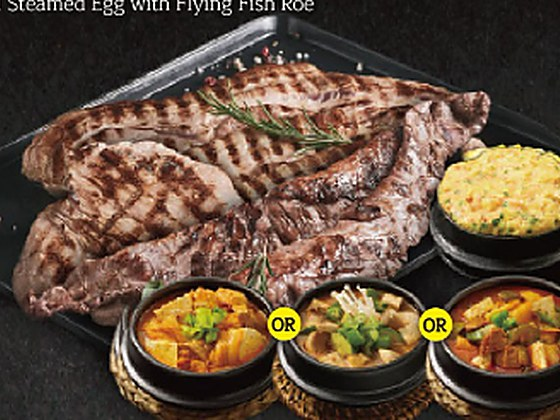
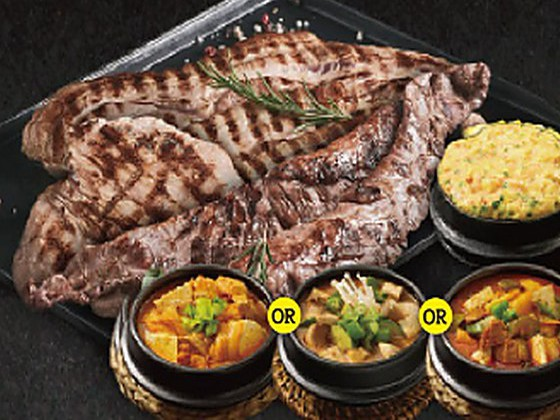
feat(menu): new hero slides, drop unsold cuts, match the printed menu
Slides: the first is the 생삼겹살 shot from hanampig.co.kr's menu page, the
second the flame-grill photo the client supplied. Share preview follows the
first slide. Combo C's photo carried a sliced-off caption along its top edge
— cropped away.

모둠한판 / 특별한판 are on the Korean menu but Tây Hồ does not sell them.

Vietnamese copy, from a native review plus the client's photos of the printed
menu. The printed menu is the authority here — a guest reading the site then
the menu board has to see the same words:
- 갈매기살 was "Thịt cơ hoành heo" on the card and "Nạc dây heo" in combos;
  the board says "Thịt nạc dày heo" (nạc dây was a tone typo of nạc dày).
- Combo descriptions drifted from their own cards on 꽃살, 등심, 살치살,
  항정살, 토시살. All now read as the cards do.
- The feature blurb promised seafood and desserts the kitchen doesn't serve.
- 계란찜 was called a canh (soup) in one combo and 트ứng hấp in another.
- "Ba ưu đãi" (three offers) when four render.
- kimchi/kim chi and mì/mỳ both appeared.
- Beef Combo → Combo Bò, Prime/Wagyu Combo → Combo Prime/Wagyu (head-initial
  word order). "Combo" itself stays: the printed menu uses it too.

diff --git a/assets/js/menu.js b/assets/js/menu.js
@@ -14,16 +14,16 @@ window.MENU = {
       img: "assets/img/menu/combo-pig-a.jpg", price: "540,000 VND",
       name: { vi: "Combo A", en: "Combo A" },
       desc: {
-        vi: "Ba chỉ heo 180g + Gáy heo 180g + 1 Canh trứng hấp.",
+        vi: "Ba chỉ heo 180g + Gáy heo 180g + 1 trứng hấp.",
         en: "Pork Belly 180g + Pork Neck End 180g + 1 Steamed Egg."
       }
     },
     {
       group: "popular", id: "pop-combo-beef-prime", ko: "프라임 콤보",
       img: "assets/img/menu/combo-beef-prime.jpg", price: "1,650,000 VND",
-      name: { vi: "Prime Combo", en: "Prime Combo" },
+      name: { vi: "Combo Prime", en: "Prime Combo" },
       desc: {
-        vi: "Thăn hoa bò Prime 130g + Thăn lưng bò Prime 130g + Bẹ vai bò Prime 130g + 1 canh bất kỳ.",
+        vi: "Sườn hoa rút xương Prime 130g + Thăn lưng bò Prime 130g + Bẹ vai Prime 130g + 1 canh bất kỳ.",
         en: "Prime Beef Short Rib 130g + Prime Sirloin 130g + Prime Chuck Flap Tail 130g + One Stew."
       }
     },
@@ -48,9 +48,9 @@ window.MENU = {
     {
       group: "popular", id: "pop-kimchi-stew", ko: "돼지고기 김치찌개",
       img: "assets/img/side-kimchi-stew.jpg", price: "200,000 VND",
-      name: { vi: "Canh kim chi thịt heo", en: "Pork Kimchi Stew" },
+      name: { vi: "Canh kimchi thịt heo", en: "Pork Kimchi Stew" },
       desc: {
-        vi: "Canh kim chi đậm đà nấu cùng thịt heo và kim chi lên men — món canh cân bằng hoàn hảo vị béo của thịt nướng.",
+        vi: "Canh kimchi đậm đà nấu cùng thịt heo và kimchi lên men — món canh cân bằng hoàn hảo vị béo của thịt nướng.",
         en: "A deep, tangy stew of well-fermented kimchi and pork — the classic counterpoint to a rich grill."
       }
     },
@@ -72,7 +72,7 @@ window.MENU = {
       img: "assets/img/menu/combo-pig-a.jpg", price: "540,000 VND",
       name: { vi: "Combo A", en: "Combo A" },
       desc: {
-        vi: "Ba chỉ heo 180g + Gáy heo 180g + 1 Canh trứng hấp.",
+        vi: "Ba chỉ heo 180g + Gáy heo 180g + 1 trứng hấp.",
         en: "Pork Belly 180g + Pork Neck End 180g + 1 Steamed Egg."
       }
     },
@@ -81,7 +81,7 @@ window.MENU = {
       img: "assets/img/menu/combo-pig-b.jpg", price: "900,000 VND",
       name: { vi: "Combo B", en: "Combo B" },
       desc: {
-        vi: "Ba chỉ heo 180g + Gáy heo 180g + Má heo 150g + 1 Trứng hấp + Khay nấm.",
+        vi: "Ba chỉ heo 180g + Gáy heo 180g + Thịt má heo 150g + 1 Trứng hấp + Khay nấm.",
         en: "Pork Belly 180g + Pork Neck End 180g + Jowl Meat 150g + 1 Steamed Egg + Assorted Mushrooms."
       }
     },
@@ -90,7 +90,7 @@ window.MENU = {
       img: "assets/img/menu/combo-pig-c.jpg", price: "1,250,000 VND",
       name: { vi: "Combo C", en: "Combo C" },
       desc: {
-        vi: "Ba chỉ heo 360g + Má heo 150g + Nạc dây heo 150g + 1 Canh bất kỳ + Trứng hấp trứng cá chuồn.",
+        vi: "Ba chỉ heo 360g + Thịt má heo 150g + Thịt nạc dày heo 150g + 1 Canh bất kỳ + Trứng hấp trứng cá chuồn.",
         en: "Pork Belly 360g + Jowl Meat 150g + Skirt Meat 150g + One Stew + 1 Steamed Egg with Flying Fish Roe."
       }
     },
@@ -99,71 +99,48 @@ window.MENU = {
       img: "assets/img/menu/combo-pig-d.jpg", price: "1,500,000 VND",
       name: { vi: "Combo D", en: "Combo D" },
       desc: {
-        vi: "Ba chỉ heo 360g + Má heo 300g + Nạc dây heo 150g + 1 Canh bất kỳ + Trứng hấp trứng cá chuồn.",
+        vi: "Ba chỉ heo 360g + Thịt má heo 300g + Thịt nạc dày heo 150g + 1 Canh bất kỳ + Trứng hấp trứng cá chuồn.",
         en: "Pork Belly 360g + Jowl Meat 300g + Skirt Meat 150g + One Stew + 1 Steamed Egg with Flying Fish Roe."
       }
     },
     {
       group: "combo", id: "combo-beef-a", ko: "소고기 콤보 A",
       img: "assets/img/menu/combo-beef-a.jpg", price: "1,260,000 VND",
-      name: { vi: "Beef Combo A", en: "Beef Combo A" },
+      name: { vi: "Combo Bò A", en: "Beef Combo A" },
       desc: {
-        vi: "Diềm bụng bò 150g + Dẻ sườn 300g + 1 Trứng hấp và Khay nấm.",
+        vi: "Diềm bụng 150g + Dẻ sườn 300g + 1 Trứng hấp và Khay nấm.",
         en: "Hanging Tender 150g + Beef Short Rib Finger 300g + Steamed Egg and Assorted Mushrooms."
       }
     },
     {
       group: "combo", id: "combo-beef-b", ko: "소고기 콤보 B",
       img: "assets/img/menu/combo-beef-b.jpg", price: "1,800,000 VND",
-      name: { vi: "Beef Combo B", en: "Beef Combo B" },
+      name: { vi: "Combo Bò B", en: "Beef Combo B" },
       desc: {
-        vi: "Sườn hoa rút xương Prime 130g + Thăn lưng Prime 130g + Diềm bụng 150g + Dẻ sườn 150g + 1 canh bất kỳ.",
+        vi: "Sườn hoa rút xương Prime 130g + Thăn lưng bò Prime 130g + Diềm bụng 150g + Dẻ sườn 150g + 1 canh bất kỳ.",
         en: "Prime Beef Short Rib 130g + Prime Sirloin 130g + Hanging Tender 150g + Beef Short Rib Finger 150g + One Stew."
       }
     },
     {
       group: "combo", id: "combo-beef-prime", ko: "프라임 콤보",
       img: "assets/img/menu/combo-beef-prime.jpg", price: "1,650,000 VND",
-      name: { vi: "Prime Combo", en: "Prime Combo" },
+      name: { vi: "Combo Prime", en: "Prime Combo" },
       desc: {
-        vi: "Thăn hoa bò Prime 130g + Thăn lưng bò Prime 130g + Bẹ vai bò Prime 130g + 1 canh bất kỳ.",
+        vi: "Sườn hoa rút xương Prime 130g + Thăn lưng bò Prime 130g + Bẹ vai Prime 130g + 1 canh bất kỳ.",
         en: "Prime Beef Short Rib 130g + Prime Sirloin 130g + Prime Chuck Flap Tail 130g + One Stew."
       }
     },
     {
       group: "combo", id: "combo-wagyu", ko: "와규 콤보",
       img: "assets/img/menu/combo-wagyu.jpg", price: "2,600,000 VND",
-      name: { vi: "Wagyu Combo", en: "Wagyu Combo" },
+      name: { vi: "Combo Wagyu", en: "Wagyu Combo" },
       desc: {
         vi: "Thăn hoa Wagyu A5 130g + Thăn tôm Wagyu A5 130g + Bẹ vai Wagyu A5 130g + 1 Canh bất kỳ + 1 Trứng hấp.",
         en: "Wagyu Ribeye A5 130g + Wagyu Striploin A5 130g + Wagyu Chuck Flap Tail A5 130g + One Stew + Steamed Egg with Flying Fish Roe."
       }
     },
-    /* ---------- Pork (7) ---------- */
-    {
-      group: "pork",
-      id: "modum-hanpan",
-      ko: "모둠한판",
-      img: "assets/img/hanam-cut-a.jpg",
-      price: "700,000 VND",
-      name: { vi: "Set thịt nướng thập cẩm", en: "Combo Grill Platter" },
-      desc: {
-        vi: "Set thập cẩm hào phóng gồm các phần được yêu thích nhất — ba chỉ, nạc vai và nhiều hơn nữa — nướng chung để cả bàn cùng thưởng thức.",
-        en: "A generous mix of our most-loved cuts — pork belly, collar and more — grilled together so the whole table can share every flavor."
-      }
-    },
-    {
-      group: "pork",
-      id: "teukbyeol-hanpan",
-      ko: "특별한판",
-      img: "assets/img/hanam-cut-b.jpg",
-      price: "1,000,000 VND",
-      name: { vi: "Set nướng đặc biệt", en: "Special Grill Platter" },
-      desc: {
-        vi: "Tuyển chọn cao cấp các phần thịt đặc biệt cho trải nghiệm đậm đà hơn — cách tuyệt nhất để khám phá thịt heo đặc trưng của Hanam.",
-        en: "A premium selection of special cuts for a richer tasting course — the best way to explore Hanam's signature pork."
-      }
-    },
+    /* ---------- Pork (5) ----------
+       모둠한판 / 특별한판 are on the Korean menu but not sold at Tây Hồ. */
     {
       group: "pork",
       id: "saengsamgyeopsal",
@@ -206,9 +183,9 @@ window.MENU = {
       ko: "갈매기살",
       img: "assets/img/hanam-cut-f.jpg",
       price: "270,000 VND",
-      name: { vi: "Thịt cơ hoành heo", en: "Pork Skirt Meat" },
+      name: { vi: "Thịt nạc dày heo", en: "Pork Skirt Meat" },
       desc: {
-        vi: "Phần cơ hoành hiếm — mỗi con heo chỉ có một ít. Thớ dai sần sật, vị đậm đà.",
+        vi: "Phần thịt hiếm — mỗi con heo chỉ có một ít. Thớ dai sần sật, vị đậm đà.",
         en: "A rare diaphragm cut — only a little per pig. Springy, chewy texture with a deep savory taste."
       }
     },
@@ -297,7 +274,7 @@ window.MENU = {
       group: "lunch", id: "lunch-galbi", ko: "양념목살갈비", price: "200,000 VND",
       name: { vi: "Nạc sườn vai sốt tương", en: "Soy-Marinated Pork Neck" },
       desc: {
-        vi: "COMBO A: 1 phần nạc sườn vai sốt tương + 1 mỳ lạnh nước hoặc mỳ lạnh trộn.\nCOMBO B: 1 phần nạc sườn vai sốt tương + 1 canh đậu tương (nhỏ) + 1 cơm trắng.\nThêm trứng hấp chỉ với 50.000 VND.",
+        vi: "COMBO A: 1 phần nạc sườn vai sốt tương + 1 mì lạnh nước hoặc mì lạnh trộn.\nCOMBO B: 1 phần nạc sườn vai sốt tương + 1 canh đậu tương (nhỏ) + 1 cơm trắng.\nThêm trứng hấp chỉ với 50.000 VND.",
         en: "COMBO A: 1 Soy Sauce Marinated Pork Neck + 1 Cold Buckwheat Noodle (broth or spicy).\nCOMBO B: 1 Soy Sauce Marinated Pork Neck + 1 Soybean Paste Stew (small) + 1 Steamed Rice.\nAdd Steamed Egg for 50,000 VND."
       }
     },
@@ -305,7 +282,7 @@ window.MENU = {
       group: "lunch", id: "lunch-jeyuk", ko: "제육볶음", price: "200,000 VND",
       name: { vi: "Thịt heo xào cay", en: "Spicy Stir-Fried Pork" },
       desc: {
-        vi: "COMBO A: 1 phần thịt heo xào cay + 1 mỳ lạnh nước hoặc mỳ lạnh trộn.\nCOMBO B: 1 phần thịt heo xào cay + 1 canh đậu tương (nhỏ) + 1 cơm trắng.\nThêm trứng hấp chỉ với 50.000 VND.",
+        vi: "COMBO A: 1 phần thịt heo xào cay + 1 mì lạnh nước hoặc mì lạnh trộn.\nCOMBO B: 1 phần thịt heo xào cay + 1 canh đậu tương (nhỏ) + 1 cơm trắng.\nThêm trứng hấp chỉ với 50.000 VND.",
         en: "COMBO A: 1 Spicy Stir-Fried Pork + 1 Cold Buckwheat Noodle (broth or spicy).\nCOMBO B: 1 Spicy Stir-Fried Pork + 1 Soybean Paste Stew (small) + 1 Steamed Rice.\nAdd Steamed Egg for 50,000 VND."
       }
     }
@@ -383,7 +360,7 @@ window.MENU = {
       ko: "김치말이국수",
       img: "assets/img/side-kimchi-noodles.jpg",
       price: "140,000 VND",
-      name: { vi: "Mì cuốn kimchi", en: "Kimchi Somen Noodles" },
+      name: { vi: "Mì lạnh nước kimchi", en: "Kimchi Somen Noodles" },
       desc: {
         vi: "Mì somen mát trong nước kimchi lạnh chua nhẹ — thanh, kích vị và sảng khoái.",
         en: "Cool somen in a tangy chilled kimchi broth — light, zesty and refreshing."

diff --git a/assets/js/content.js b/assets/js/content.js
@@ -44,7 +44,7 @@ window.CONTENT = {
     feat2_alt: "Phòng ăn riêng với bàn nướng riêng biệt",
     feat3_label: "THỰC ĐƠN ĐA DẠNG",
     feat3_title: "Món ngon cho mọi người",
-    feat3_desc: "Từ thịt heo, thịt bò thượng hạng đến hải sản, các món canh, đồ uống và tráng miệng — ai cũng tìm được món mình thích.",
+    feat3_desc: "Từ thịt heo, thịt bò thượng hạng đến các món canh, mì lạnh và cơm — ai cũng tìm được món mình thích.",
     feat3_alt: "Đĩa thịt nướng cùng các món canh Hàn Quốc và mì lạnh",
 
     social_eyebrow: "Khách hàng nói gì",
@@ -56,21 +56,21 @@ window.CONTENT = {
     rev_1_who: "Anh Tuan Phuong",
     rev_1: "Quán này món gì cũng ngon, ăn vị rất giống bên Hàn nha…",
     rev_2_who: "Thanh Tú Phạm",
-    rev_2: "Ăn 2 lần rồi đều rất ưng ý, thịt bò và thịt heo nướng đều tươi ngon, đặc biệt ba chỉ heo rất nên thử nha. Panchan đầy đặn, lá tỏi ngâm chỉ ở đây có ăn cực cuốn, canh kim chi ngon ghê. Vừa ăn vừa ngắm view Hồ Tây thích phết ❤️",
+    rev_2: "Ăn 2 lần rồi đều rất ưng ý, thịt bò và thịt heo nướng đều tươi ngon, đặc biệt ba chỉ heo rất nên thử nha. Panchan đầy đặn, lá tỏi ngâm chỉ ở đây có ăn cực cuốn, canh kimchi ngon ghê. Vừa ăn vừa ngắm view Hồ Tây thích phết ❤️",
     rev_3_who: "Anh Hanoi (하노이 형)",
     rev_3: "Thịt ba chỉ ở đây thực sự tuyệt vời, nước thịt tan chảy trong miệng! Các món ăn kèm hoàn hảo giúp cân bằng vị béo ngậy của thịt. Nhân viên nướng thịt rất khéo. Tôi tuyên bố đây là quán thịt ba chỉ ngon nhất mọi thời đại của tôi!",
     reviews_credit: "Đánh giá từ khách hàng trên Google Maps.",
 
     /* ---- Promotion ---- */
     promo_eyebrow: "Ưu đãi hằng ngày",
-    promo_title: "Ba ưu đãi dành cho bạn",
+    promo_title: "Ưu đãi mỗi ngày tại Hanam",
     promo1_t: "Tiệc sinh nhật",
     promo1_d: "Dành cho khách đặt tiệc sinh nhật — trang trí bóng bay & phục vụ bánh sinh nhật. Không gian riêng tư dành cho tiệc sinh nhật, liên hoan và mọi dịp đặc biệt.",
     promo1_alt: "Hai mẹ con với bánh sinh nhật bên khung cảnh Hồ Tây",
-    promo2_t: "Giờ vàng đến sớm",
+    promo2_t: "Happy Hour – Đến sớm",
     promo2_time: "17:00 – 18:30",
     promo2_d: "Đến sớm để nhân đôi niềm vui: Mua 1 tặng 1 toàn bộ đồ uống, bao gồm cả nước ngọt và đồ uống có cồn.",
-    promo2b_t: "Giờ vàng đánh giá",
+    promo2b_t: "Giờ vàng Review",
     promo2b_time: "19:00 – 20:30",
     promo2b_d: "Dùng bữa và để lại đánh giá cho Hanam BBQ Tây Hồ để nhận lượt bốc thăm may mắn: một món ăn miễn phí hoặc voucher 300K.",
     promo2_alt: "Bia, nước ngọt và rượu soju",
@@ -156,7 +156,7 @@ window.CONTENT = {
     feat2_alt: "A private dining room with its own grill table",
     feat3_label: "MENU SELECTION",
     feat3_title: "Something for Everyone",
-    feat3_desc: "From premium Korean pork to beef, seafood, stews, drinks, and desserts, there is something everyone can enjoy.",
+    feat3_desc: "From premium Korean pork to beef, stews, cold noodles and rice dishes, there is something everyone can enjoy.",
     feat3_alt: "Grilled pork platter served with Korean stews and cold noodles",
 
     social_eyebrow: "What guests say",
@@ -175,7 +175,7 @@ window.CONTENT = {
 
     /* ---- Promotion ---- */
     promo_eyebrow: "Every day offers",
-    promo_title: "Three offers for you",
+    promo_title: "Every day offers at Hanam",
     promo1_t: "Birthday party",
     promo1_d: "For guests who book a birthday party — balloon decoration and cake service on us. A private space for birthdays, company parties and every special occasion.",
     promo1_alt: "A mother and daughter with a birthday cake by the West Lake view",

diff --git a/index.html b/index.html
@@ -15,15 +15,15 @@
   <meta property="og:site_name" content="Hanam BBQ Tây Hồ" />
   <meta property="og:title" content="Hanam BBQ Tây Hồ — Korean Premium BBQ at West Lake" />
   <meta property="og:description" content="Tinh hoa thịt nướng Hàn Quốc ngay tại Hồ Tây. Korean No.1 BBQ · 4.8★ Google." />
-  <meta property="og:image" content="assets/img/hero-01-cuts.jpg" />
+  <meta property="og:image" content="assets/img/hero-01-samgyeopsal.jpg" />
   <meta property="og:locale" content="vi_VN" />
   <meta property="og:locale:alternate" content="en_US" />
   <meta name="twitter:card" content="summary_large_image" />
   <meta name="twitter:title" content="Hanam BBQ Tây Hồ — Korean Premium BBQ" />
   <meta name="twitter:description" content="Tinh hoa thịt nướng Hàn Quốc ngay tại Hồ Tây. 4.8★ Google." />
-  <meta name="twitter:image" content="assets/img/hero-01-cuts.jpg" />
+  <meta name="twitter:image" content="assets/img/hero-01-samgyeopsal.jpg" />
 
-  <link rel="preload" as="image" href="assets/img/hero-01-cuts.jpg" fetchpriority="high" />
+  <link rel="preload" as="image" href="assets/img/hero-01-samgyeopsal.jpg" fetchpriority="high" />
   <link rel="icon" href="assets/img/logo.png" />
   <link rel="apple-touch-icon" href="assets/img/logo.png" />
 
@@ -86,7 +86,7 @@
         <div class="hero-stage">
           <div class="hero-slides" aria-hidden="true">
             <div class="hero-slide hero-slide--1 is-active"></div>
-            <div class="hero-slide hero-slide--2" data-bg="assets/img/hero-01b-cuts-tray.jpg"></div>
+            <div class="hero-slide hero-slide--2" data-bg="assets/img/hero-02-flame.jpg"></div>
             <div class="hero-slide hero-slide--3" data-bg="assets/img/hero-19-table.jpg"></div>
             <div class="hero-slide hero-slide--4" data-bg="assets/img/hero-13-lakeview.jpg"></div>
           </div>

diff --git a/assets/css/styles.css b/assets/css/styles.css
@@ -325,7 +325,7 @@ body::before {
 @keyframes heroZoom { to { transform: scale(1); } }
 
 /* First slide ships in CSS for LCP; the rest are lazy-assigned from data-bg. */
-.hero-slide--1 { background-image: url("../img/hero-01-cuts.jpg"); }
+.hero-slide--1 { background-image: url("../img/hero-01-samgyeopsal.jpg"); }
 .hero-slide--3 { background-position: center center; }  /* table spread is already stage-wide */
 .hero-slide--4 { background-position: center 42%; }  /* lake view — keep the sunset in frame */
 

diff --git a/assets/js/app.js b/assets/js/app.js
@@ -93,7 +93,7 @@
     /* `short` is the jump-chip label. Four chips split the phone width evenly,
        which leaves ~67px of text — "Set Combo" ellipsised to "Set Com…" there.
        Only groups whose full title overruns need one. */
-    combo: { vi: "Set Combo", en: "Combo", ko: "콤보", short: { vi: "Combo", en: "Combo" } },
+    combo: { vi: "Combo", en: "Combo", ko: "콤보" },
     pork: { vi: "Thịt heo", en: "Pork", ko: "돼지고기" },
     beef: { vi: "Thịt bò", en: "Beef", ko: "소고기" },
     lunch: { vi: "Set trưa", en: "Lunch Set", ko: "런치세트" },